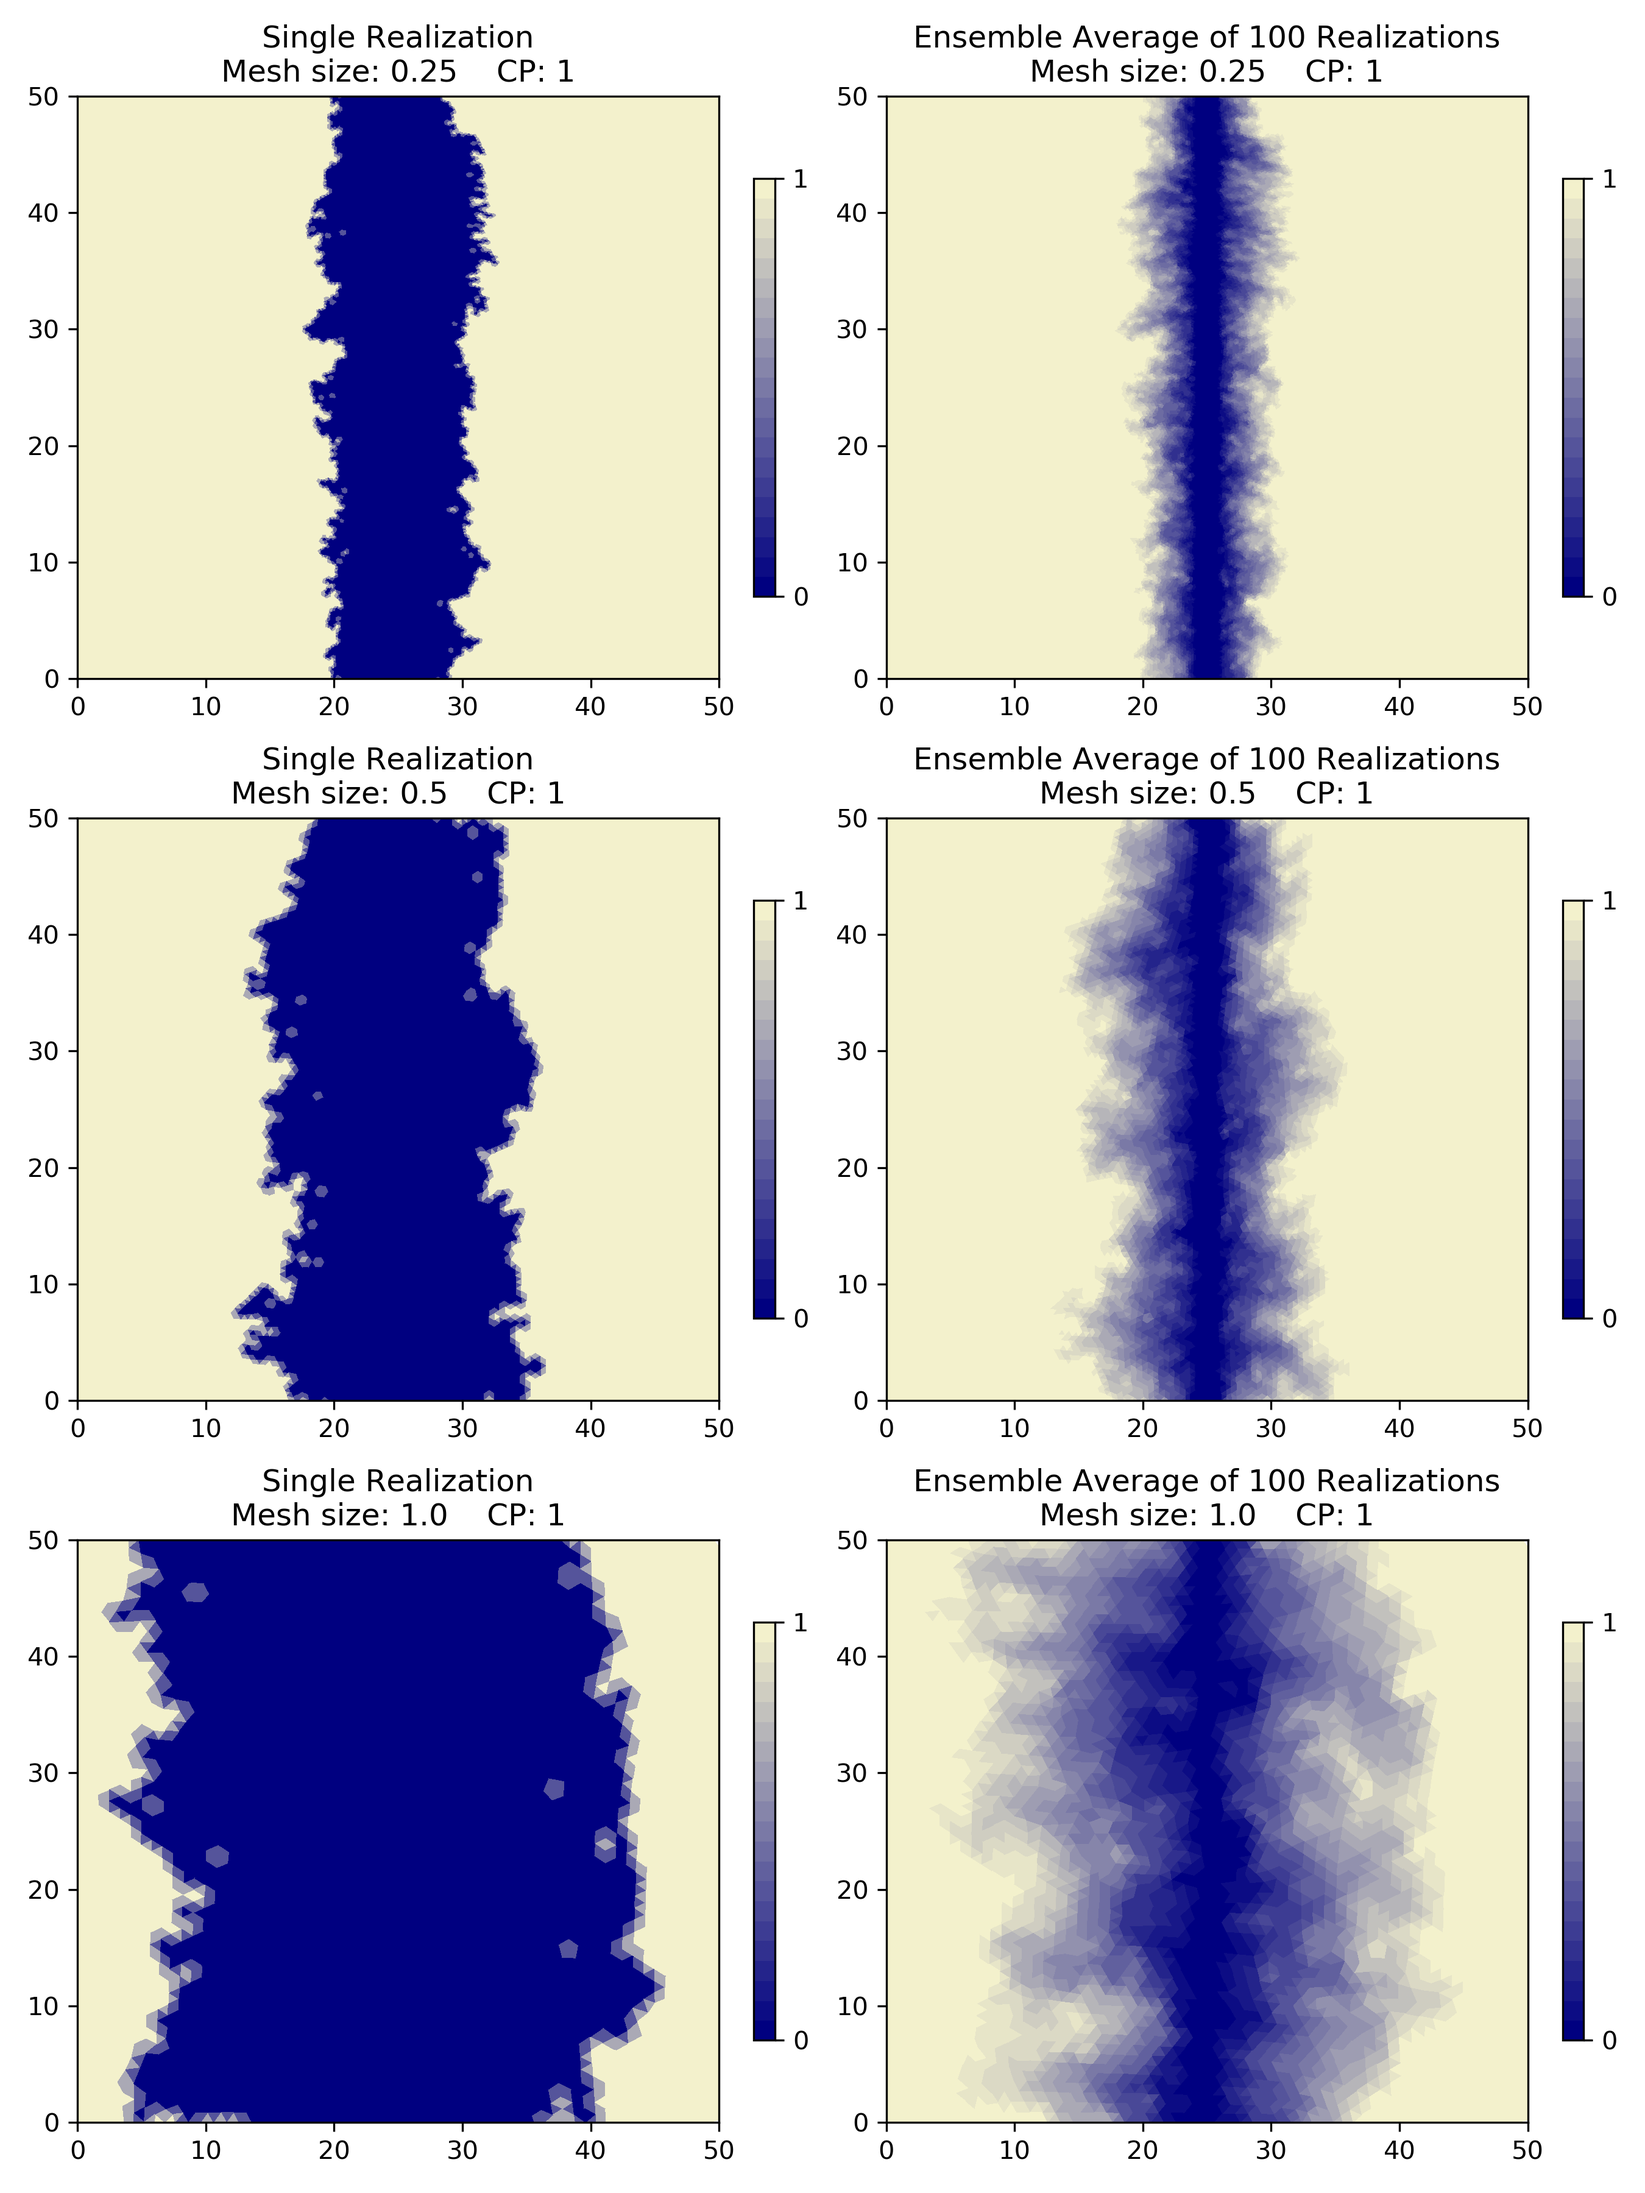
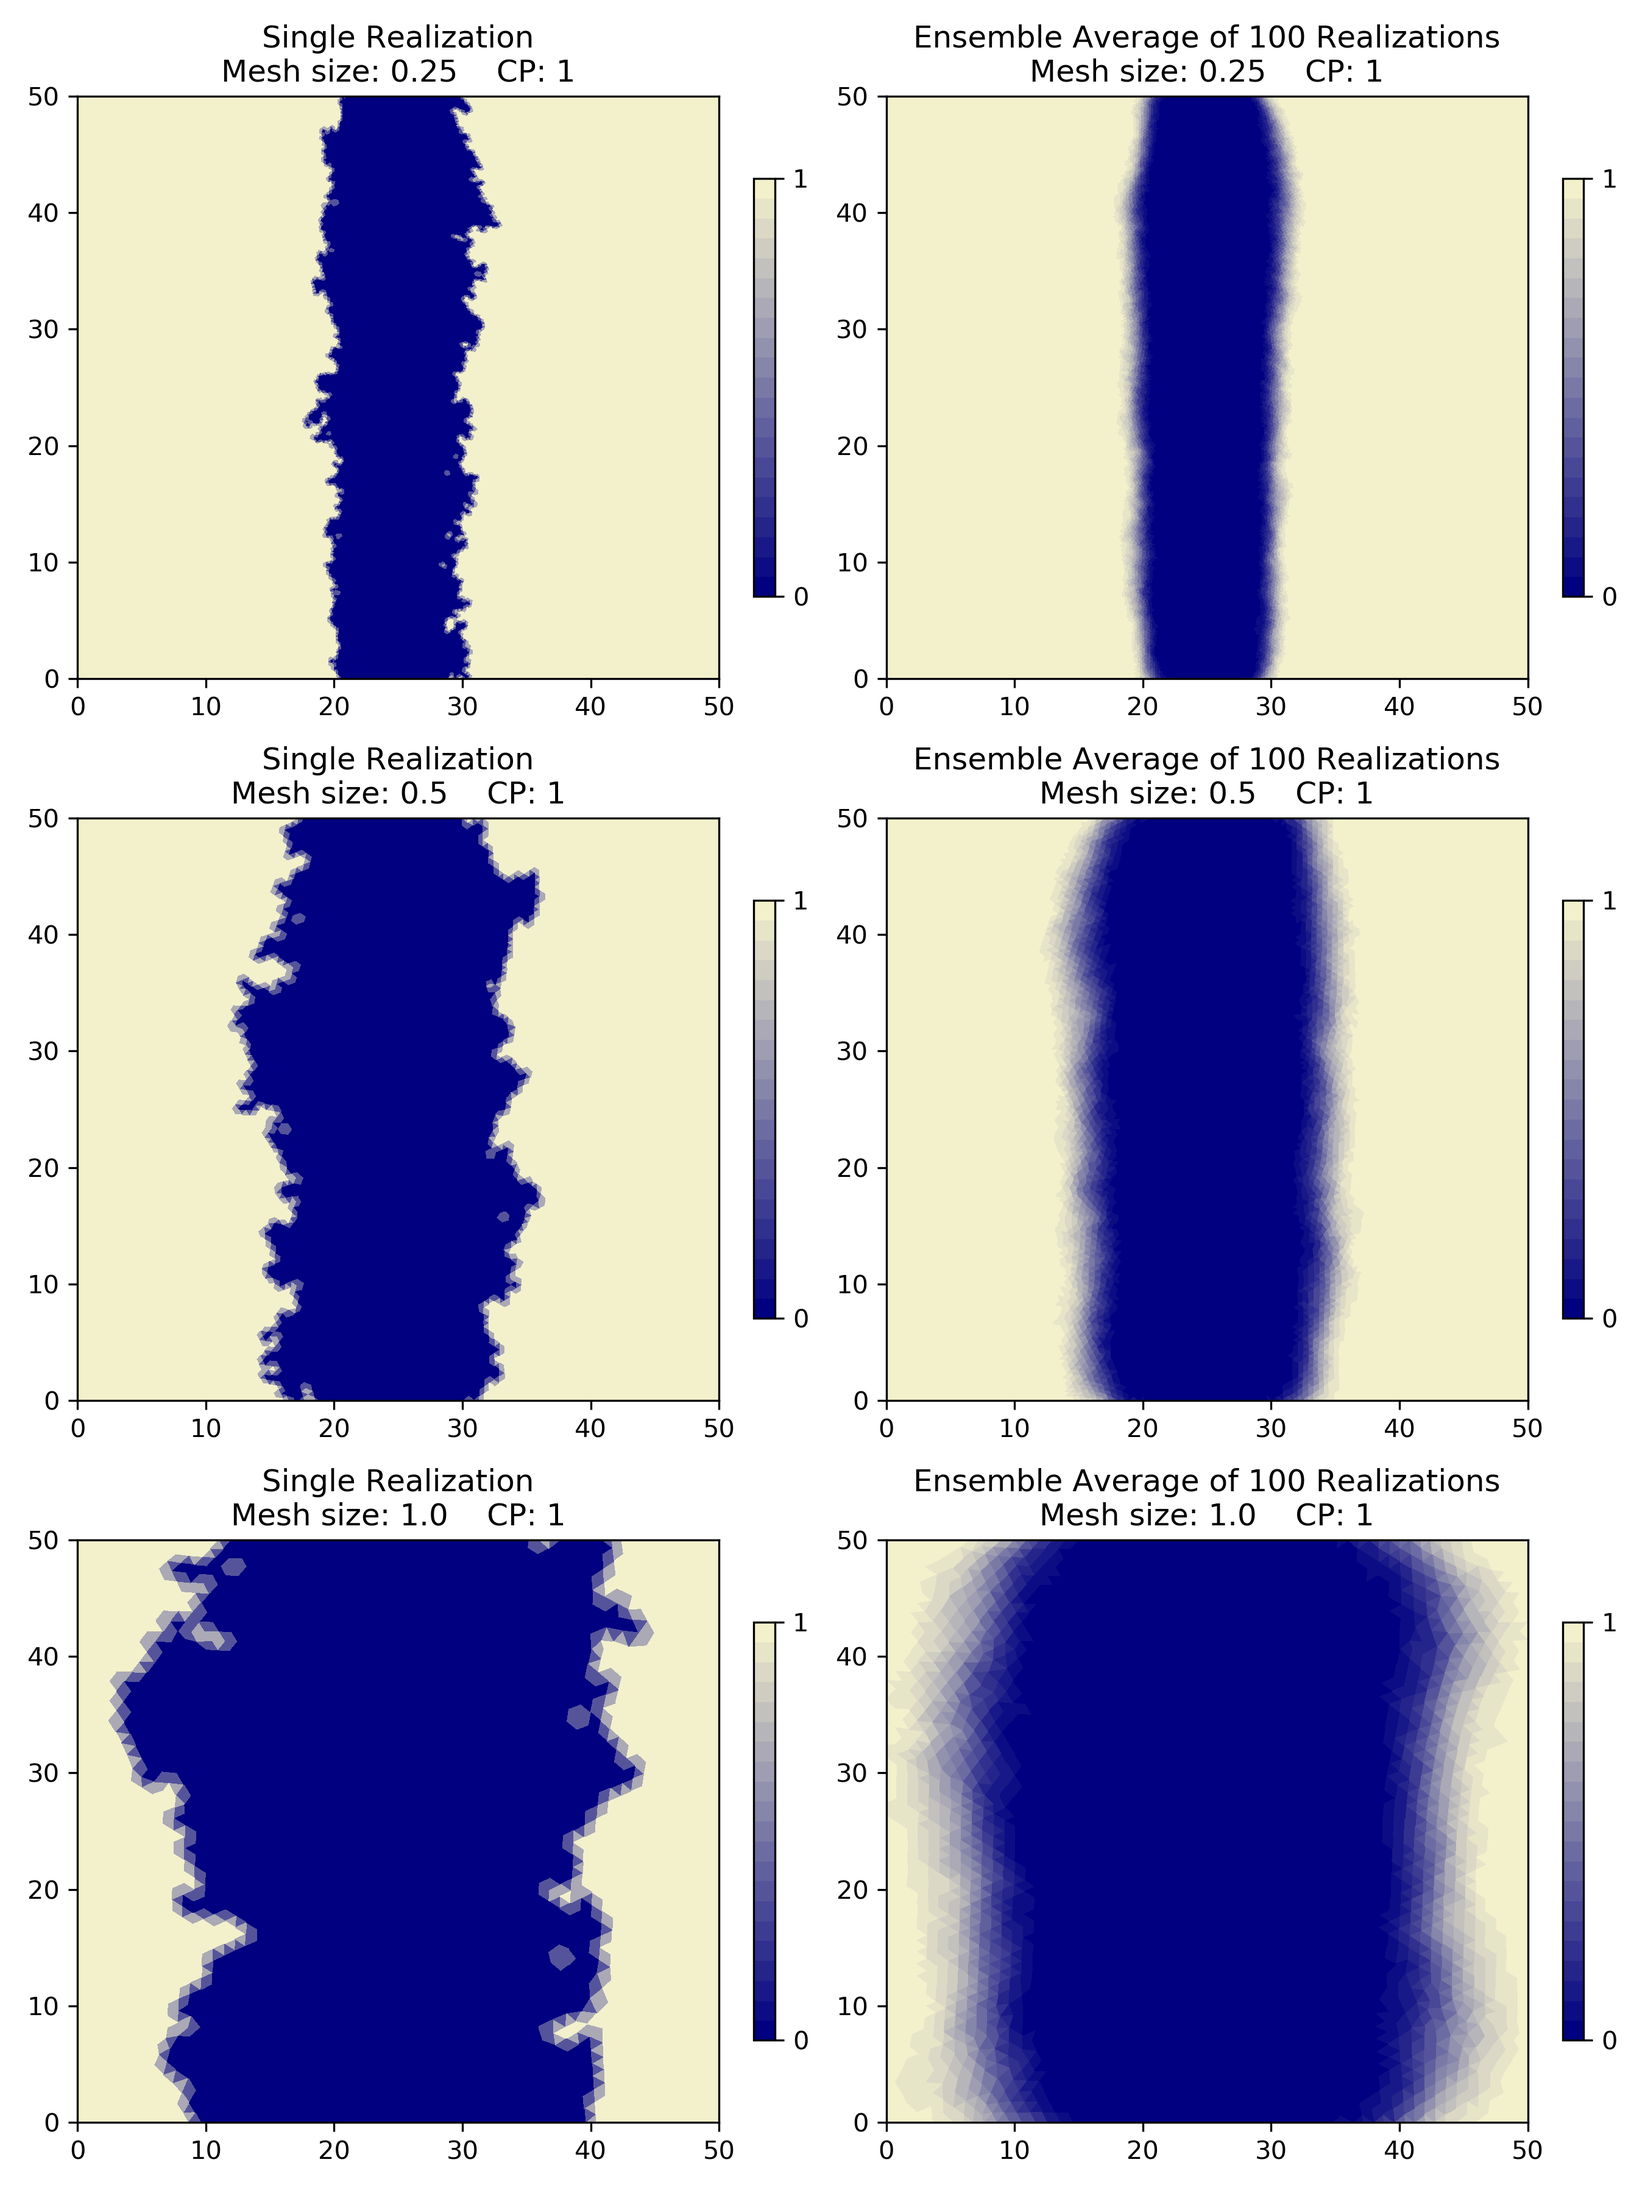
fix bug of realizations

diff --git a/erosion.py b/erosion.py
@@ -63,12 +63,14 @@ def evolution(fname, Niterations, Nrealizations, coupling_period):
     if Nrealizations < 1:
         Nrealizations = 1
     node, elem = readfile(fname)
+    z = np.copy(node[:, 2])
     ave = np.zeros(len(node))
     for realization in range(Nrealizations):
         print('Realization '+str(realization+1))
+        node[:, 2] = np.copy(z)
         for current_iteration_num in range(Niterations):
             rdm = np.random.random(len(elem))
-            r = np.ones(len(elem))/10
+            r = np.ones(len(elem))/2
             risk = 0.5*(1 + erf(4*(r - 1)/np.sqrt(r**2 + 1)/np.sqrt(2)))
             node[:,2] = erosion(node, elem, rdm, risk, current_iteration_num, coupling_period)
             sys.stdout.write('\rIteration '+str(current_iteration_num))
@@ -156,5 +158,5 @@ def main(Niterations, Nrealizations, onlyIC=False):
 
   
 if __name__ == '__main__':
-    main(Niterations=201, Nrealizations=100, onlyIC=False)
+    main(Niterations=101, Nrealizations=100, onlyIC=False)
 
